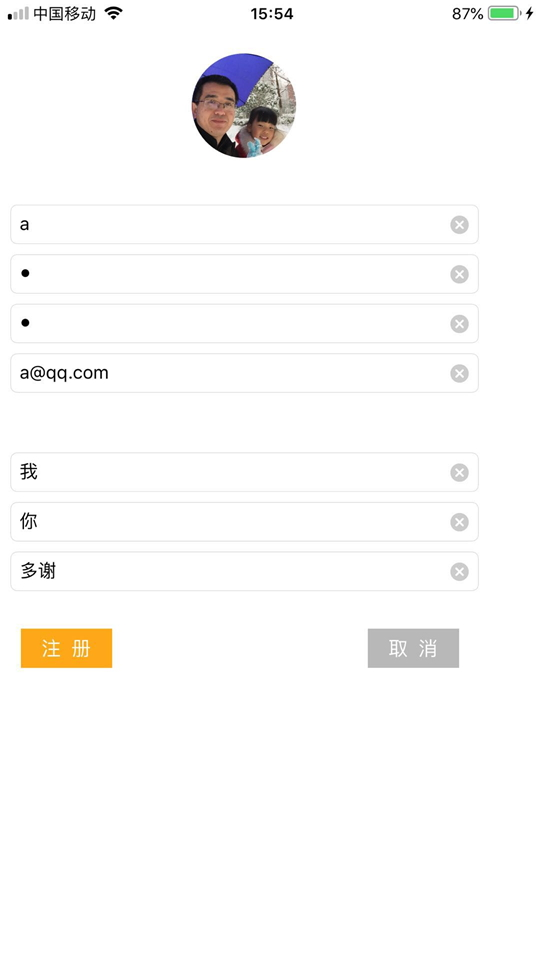
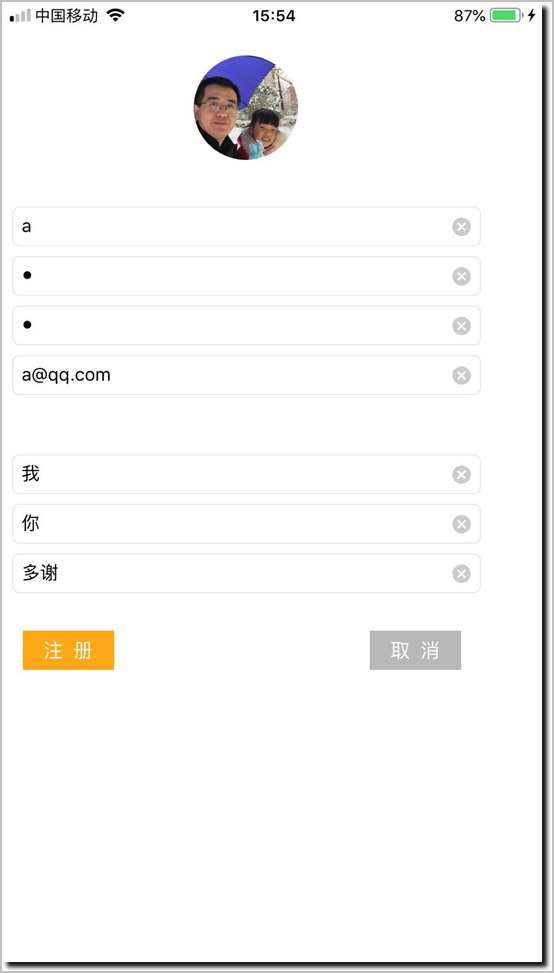
增加图片边框

diff --git a/BookAssets/源代码/第6章/README.md b/BookAssets/源代码/第6章/README.md
@@ -40,7 +40,7 @@ _ = avatarFile.save { result in
 }
 ```
 
-- 注册页面  
+- 注册页面(iPhone 6 Plus 1920*1080，没有适配)  
 ![](images/00_Screen.jpg)
 
 - 控制台输出
